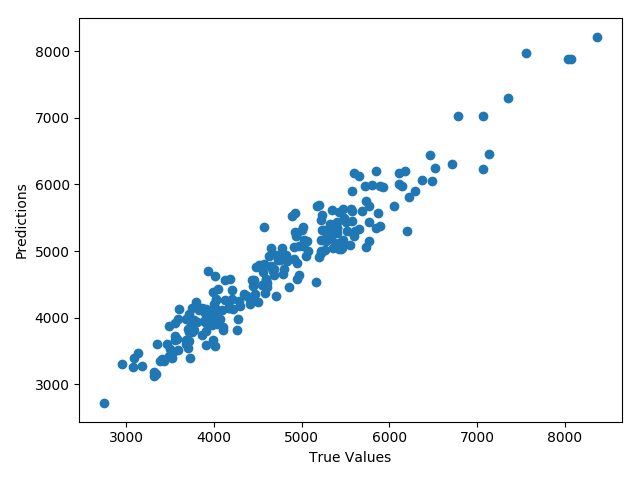
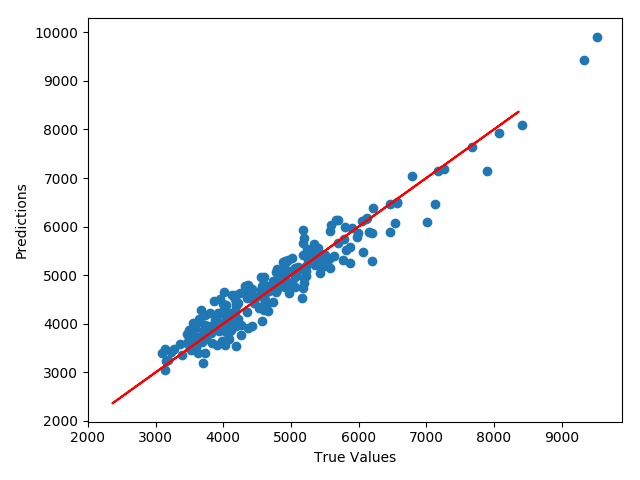
no message

diff --git a/Model.py b/Model.py
@@ -1,11 +1,9 @@
 import pandas as pd
-import numpy as np
 from sklearn.model_selection import train_test_split, cross_val_score, cross_val_predict
 from sklearn.linear_model import LinearRegression
 from matplotlib import pyplot as plt
-from sklearn.model_selection import KFold
-from array import array
-from sklearn import metrics
+from sklearn.metrics import mean_squared_error
+from math import sqrt
 
 df = pd.read_csv('/Users/jc/Desktop/CS381DataAnalysis/data.csv')
 
@@ -25,24 +23,25 @@ print("\nx_test:\n")
 print(x_test.head())
 print(x_test.shape)
 
-lm = LinearRegression()
-model = lm.fit(x_train, y_train)
-predictions = lm.predict(x_test)
+linear = LinearRegression()
+linear.fit(x_train, y_train)
+predictions = linear.predict(x_test)
 
 plt.scatter(y_test, predictions)
+plt.plot(y_train, y_train, color = 'red')
 plt.xlabel('True Values')
 plt.ylabel('Predictions')
-# plt.show()
-
-print('Some of predictions: ', predictions[0:5])
-print('Model score: ', model.score(x_test,y_test))
-
-scores = cross_val_score(model, df, y, cv=6)
-print('Cross-validated scores', scores)
-
-predictions = cross_val_predict(model, df, y, cv=6)
-plt.scatter(y, predictions)
 plt.show()
 
-accuracy = metrics.r2_score(y, predictions)
-print('Cross-Predicted Accuracy:', accuracy)
+# get cross validation scores
+y_predicted = linear.predict(x_train)
+y_test_predicted = linear.predict(x_test)
+
+
+def rmse(x, y):
+    return sqrt(mean_squared_error(x, y))
+
+print("Training Model Accuracy" , ":" , linear.score(x_train, y_train) , "," ,
+      "Sample Test Model Accuracy" ,":" , linear.score(x_test, y_test))
+print("Training RMSE", ":", rmse(y_train, y_predicted),
+      "Testing RMSE", ":", rmse(y_test, y_test_predicted))

diff --git a/index.md b/index.md
@@ -59,7 +59,7 @@ Dataset URL: [https://www.kaggle.com/c/rossmann-store-sales/data](https://www.ka
 ### D. Model Evaluation
 - Use Cross Validation<br/>
 <image src="validation.png" />
-<image src="model1.png.png" />
+<image src="model1.png" />
 - Accuracy for training model is close to test model
   - There should be no overfitting or underfitting
 - Training RMSE is close to Testing RMSE
